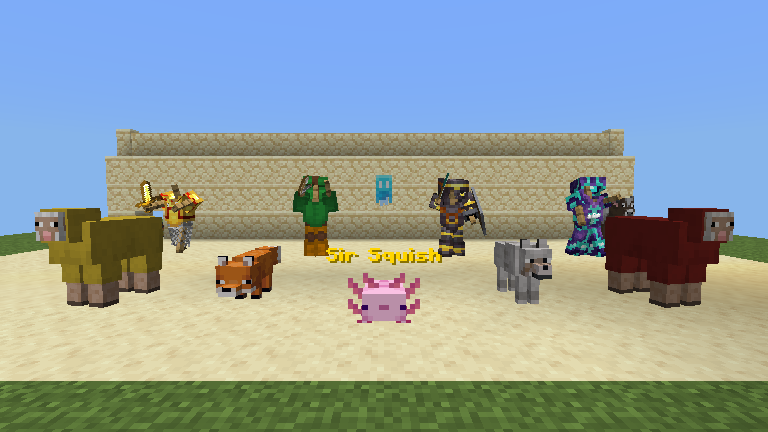
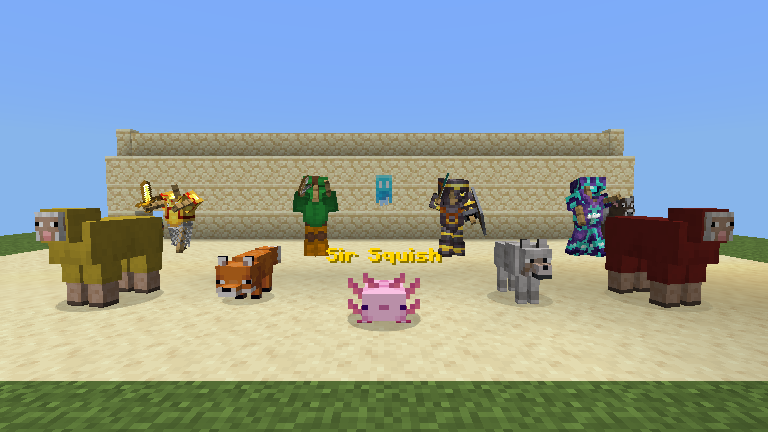
fix(shell/screenshots): the capture harness never installed a shadow ground source
Owner, on docs/images/04-entities.png: "looks like shadows are missing under
those entities too". They were, and it is the harness rather than the table.

The two candidate causes had opposite fixes, so the table was checked first.
Regenerating SHADOW_RADII with scripts/dump-entity-shadows.py reproduces the
committed table byte-for-byte -- 157 types, 0 unresolved, the same histogram --
and the five species visible in that frame were then read out of the 26.2
client directly rather than trusting the generator against itself:

    sheep     0.7   SheepRenderer:    super(..., 0.7F)
    cow       0.7   CowRenderer:      super(..., 0.7F)
    fox       0.4   FoxRenderer:      super(..., 0.4F)
    wolf      0.5   WolfRenderer:     super(..., 0.5F)
    axolotl   0.5   AxolotlRenderer:  super(..., 0.5F)

All five match. The armour stands in the same frame legitimately take vanilla's
0.0F and are supposed to cast nothing, so they were never evidence either way.

The harness installed no ShadowGroundSource at all. RenderState::prepare_shadows
asks it what block sits under each candidate cell; an unset source samples None
for every one, so the pass ran, emitted zero vertices, and produced a frame in
which nothing was wrong except the missing decals. Nothing could go red: the
option half of vanilla's gate defaults on, the shadow texture loads from the
vanilla pack, and the only tell is the image.

This is the mirror image of the hazard the harness already documents -- "a
[…]

diff --git a/crates/lodestone-shell/tests/capture_screenshots.rs b/crates/lodestone-shell/tests/capture_screenshots.rs
@@ -852,13 +852,24 @@ fn install_frame_sources(render: &mut RenderState, sim: &Sim) {
 
 /// The once-per-session installs `app/session.rs`'s
 /// `install_session_render_sources` performs: the sky pass and its textures,
-/// the per-dimension ambient floor, the time-of-day clock and the entity light
-/// sampler.
+/// the per-dimension ambient floor, the time-of-day clock, the entity light
+/// sampler and the shadow ground sampler.
 ///
 /// Without the light sampler every mob and every block entity renders at a
 /// constant brightness, which looks *plausible* in a screenshot and is wrong —
 /// exactly the failure this harness must not ship, so it is installed here even
 /// though nothing would go red without it.
+///
+/// The shadow ground sampler is the same class and was missed for exactly that
+/// reason: `RenderState::prepare_shadows` asks it what block sits under each
+/// candidate cell, and an *unset* source samples `None` for every one of them,
+/// so the pass emits zero vertices and every entity in every capture stands on
+/// its own reflection-free patch of floor. Nothing goes red — the option half
+/// of vanilla's gate (`set_entity_shadows_enabled`) already defaults on, the
+/// shadow texture already loads from the vanilla pack, and the only tell is a
+/// missing decal in the image. Any *new* source `app/session.rs` grows has to
+/// be mirrored here for the same reason; this harness is a second, silent
+/// implementation of that function's wiring.
 fn install_render_sources(
     render: &mut RenderState,
     sim: &Sim,
@@ -896,6 +907,22 @@ fn install_render_sources(
             sky_policy.get(),
         )
     });
+    // `app/session.rs`'s `install_shadow_ground_source`, verbatim: a cheap
+    // one-position read through a cloned handle, answering "what block is
+    // this" and leaving "does that state catch a shadow" to the collision
+    // data on the render side.
+    let ground = handle.clone();
+    render.set_shadow_ground_source(move |[x, y, z]| {
+        ground
+            .get()?
+            .block_at(lodestone_client::BlockPos::new(x, y, z))
+    });
+    // The option half of vanilla's `entityShadows && !isInvisible` gate. The
+    // live client polls `nav.options().entity_shadows` every presented frame
+    // in `app/redraw.rs`; this harness has no options menu, so it states the
+    // value it wants once rather than resting on `RenderState::new`'s default.
+    render.set_entity_shadows_enabled(true);
+
     // The raw day-time tick, not `sky_darken`'s derived factor — the sky pass
     // needs the tick itself to place the sun, the moon and the cloud scroll.
     // `app/session.rs` wraps this in `ContinuousTimeOfDay` so the clouds do not

diff --git a/docs/screenshots.md b/docs/screenshots.md
@@ -20,8 +20,8 @@ nothing else: the keybind reads the window's swapchain, this reads a headless ta
 1. join the oracle with `Sim` — the same type `WindowApp` drives — via `Sim::connect_as`,
    and pump `Sim::step` + `drain_removals`/`drain_meshes` the way `app/redraw.rs` does;
 2. install the render sources `app/session.rs`'s `install_session_render_sources` and
-   `app/redraw.rs` install: the sky pass, the entity light sampler, the time-of-day clock,
-   and every block-entity/display source;
+   `app/redraw.rs` install: the sky pass, the entity light sampler, the shadow ground
+   sampler, the time-of-day clock, and every block-entity/display source;
 3. for each scene, run its RCON commands, keep pumping for its settle time, then render one
    frame through `RenderState::render` (plus `HudRenderer::render_with_item_models` when the
    scene asks for a HUD);
@@ -90,6 +90,16 @@ Gotchas, each of which cost a run:
   first-person-hand suppressor was installed only for scenes without `@hand`, which left it
   in place for the `@hand` scene that came after — captured with no hand at all, and nothing
   red anywhere. Install both arms of any such switch, never one.
+* **And the mirror image: a source that is never installed at all.** The entity ground
+  shadows shipped with no `ShadowGroundSource` here, so `RenderState::prepare_shadows`
+  sampled `None` for every candidate cell, emitted zero vertices, and every mob in every
+  capture stood on a shadow-free floor. Neither half of the surrounding wiring objected —
+  the option gate (`set_entity_shadows_enabled`) defaults on, the shadow texture loads from
+  the vanilla pack, the pass ran and produced nothing. Re-rendering with the source
+  installed moved **3,673 px in `04-entities` (3,671 of them darker)** and 811 in `05-hud`,
+  all inside the ground band under the entities. This harness is a second, silent
+  implementation of `install_session_render_sources`' wiring: when that function grows a
+  source, mirror it here in the same commit, because nothing mechanical connects the two.
 * **`HudRenderer::new` takes the *raw* (non-sRGB) format and every `attach_*` takes the
   corrected one.** Vanilla's 2-D GUI blending is not colour-managed, so the flat-colour pass
   draws into a raw view of the same texture. Building the whole thing against one format is
@@ -106,15 +116,20 @@ Gotchas, each of which cost a run:
 
 ### What is deliberately not photographed
 
-A screenshot must not launder a defect. Three block-entity types were composed into the
-block-entity scene, found to render wrongly, and removed with a comment in the scene file
-saying so — put them back when they are fixed:
+A screenshot must not launder a defect. Three block-entity types were once pulled out of the
+block-entity scene as broken. Re-measured against the same oracle, **two of the three were
+the scene's own placement, not the renderer** — and both misdiagnoses are worth keeping,
+because both produce a picture that looks exactly like a render bug:
 
-| subject | what it does today |
-|---|---|
-| `conduit` | its shell draws as a huge translucent blue sheet across the whole stage, not a one-block cage |
-| any skull/head (`skeleton_skull`, `zombie_head`) | draws as a plain untextured cube; the face texture never reaches its front quad, with the camera square on to `rotation=8` |
-| `dragon_head` | draws nothing at all, while ordinary skulls beside it draw |
+| subject | reported as | actually |
+|---|---|---|
+| `conduit` | a huge translucent blue sheet over the whole stage | `minecraft:conduit`'s default state is `waterlogged=true`, so a bare `setblock` puts a real water source on the stage; the server floods it out to a radius-6 diamond, and with the eye 0.125 blocks above that surface the water fills the frame. Vanilla does the same. Place it `waterlogged=false` |
+| `skeleton_skull` / `zombie_head` | a plain untextured cube | the camera was square on to `rotation=8`, which is the **back** of the head — segment 0 faces north (`-Z`). The back of a skeleton skull is uniform light grey and of a zombie head uniform green. At `rotation=0` both draw their faces, and so do the creeper, wither-skeleton and player heads |
+| `dragon_head` (and `piglin_head`) | draws nothing at all | real: `DragonHeadModel`/`PiglinHeadModel` are multi-part rigs, unrelated to the shared 8×8×8 `SkullModel` box, and were not ported |
+
+The lesson generalises past these two: **an A/B that removes the subject proves the subject
+is involved, not that the subject's renderer is at fault.** Both of these were confirmed by
+removing the block and watching the artefact go, and both were still the scene.
 
 Two smaller divergences the images do show, honestly, rather than hide: legacy `§` codes in
 sign text render as literal section signs (this client deliberately never turns them into
